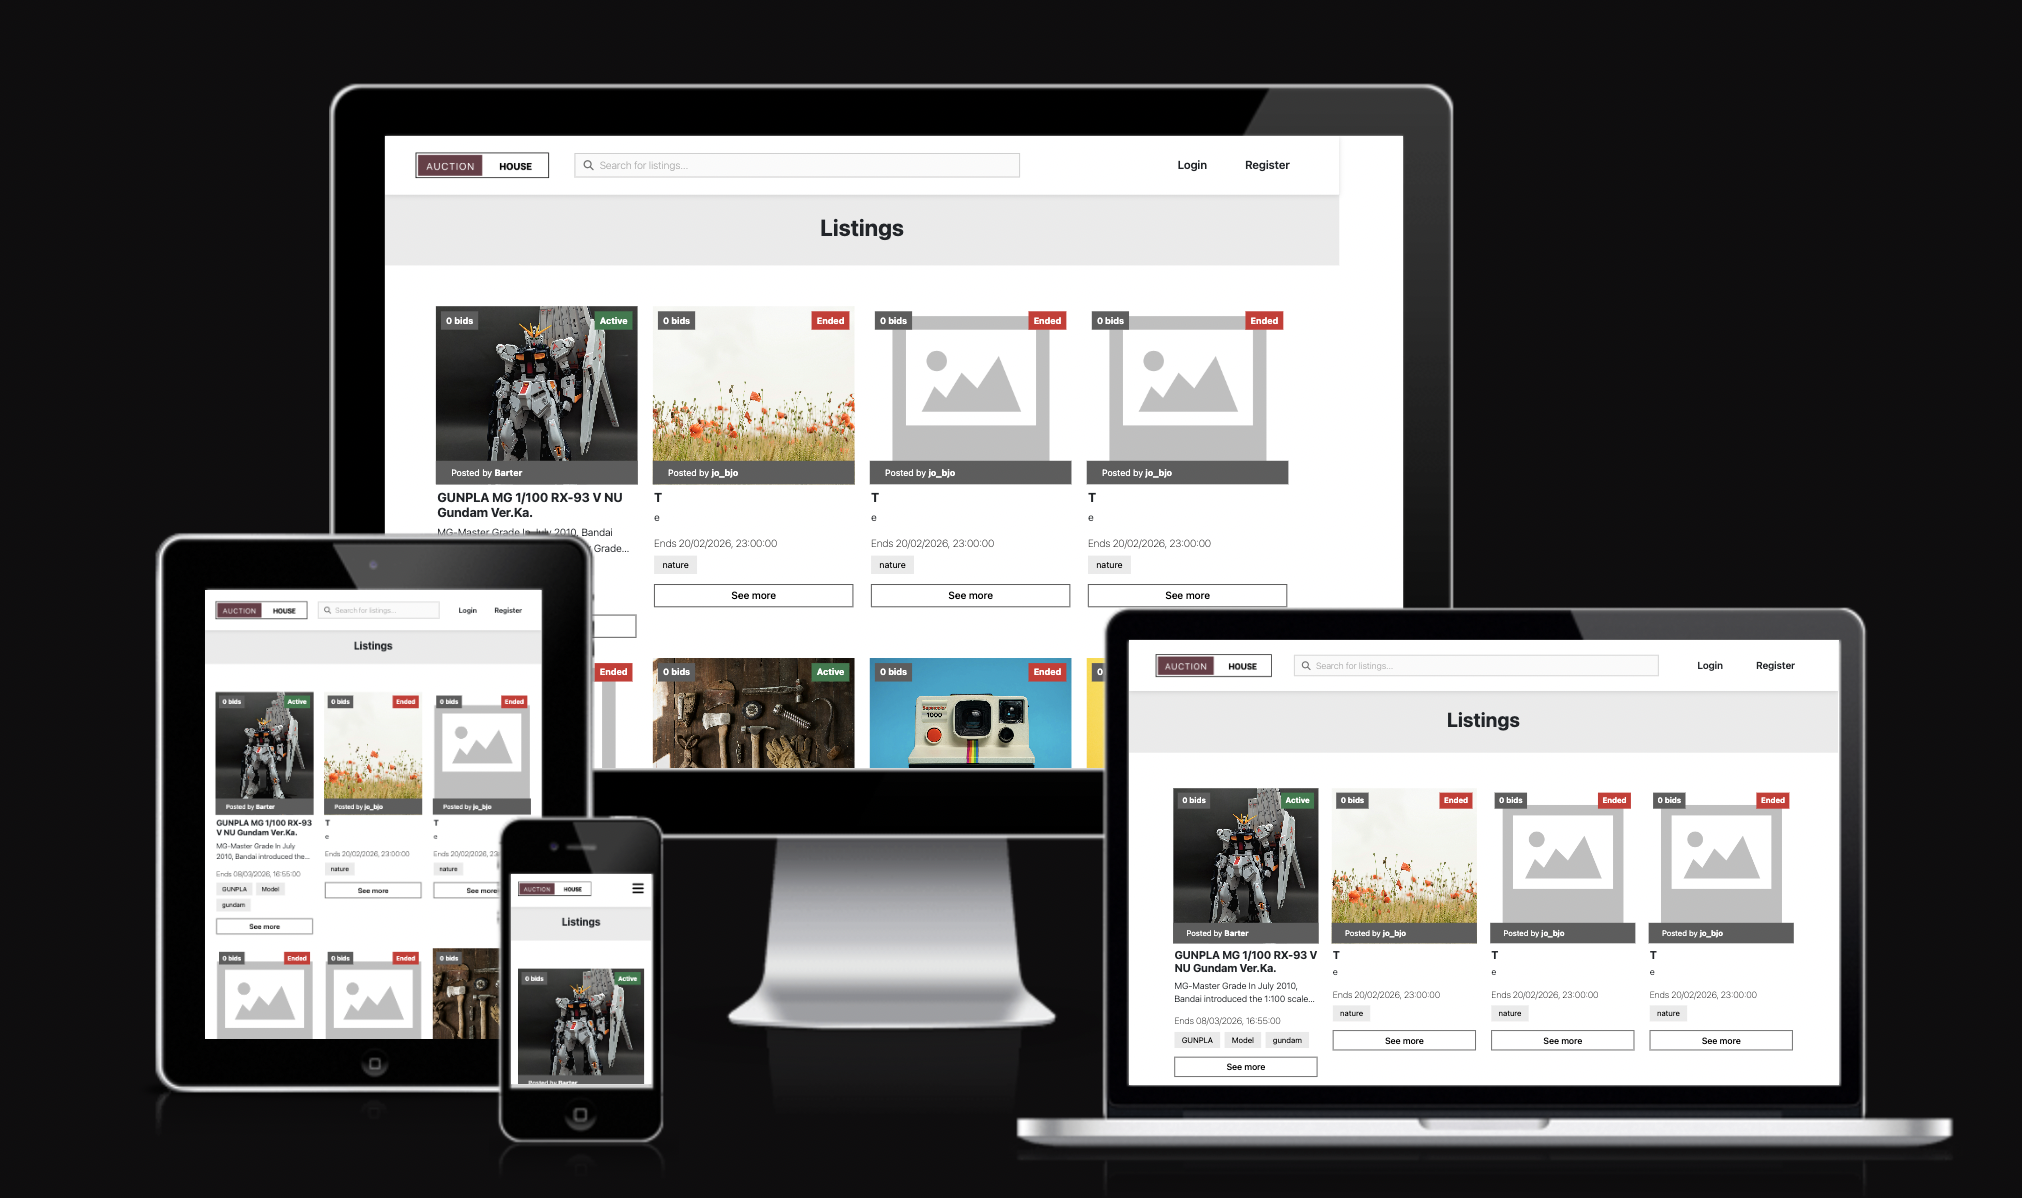
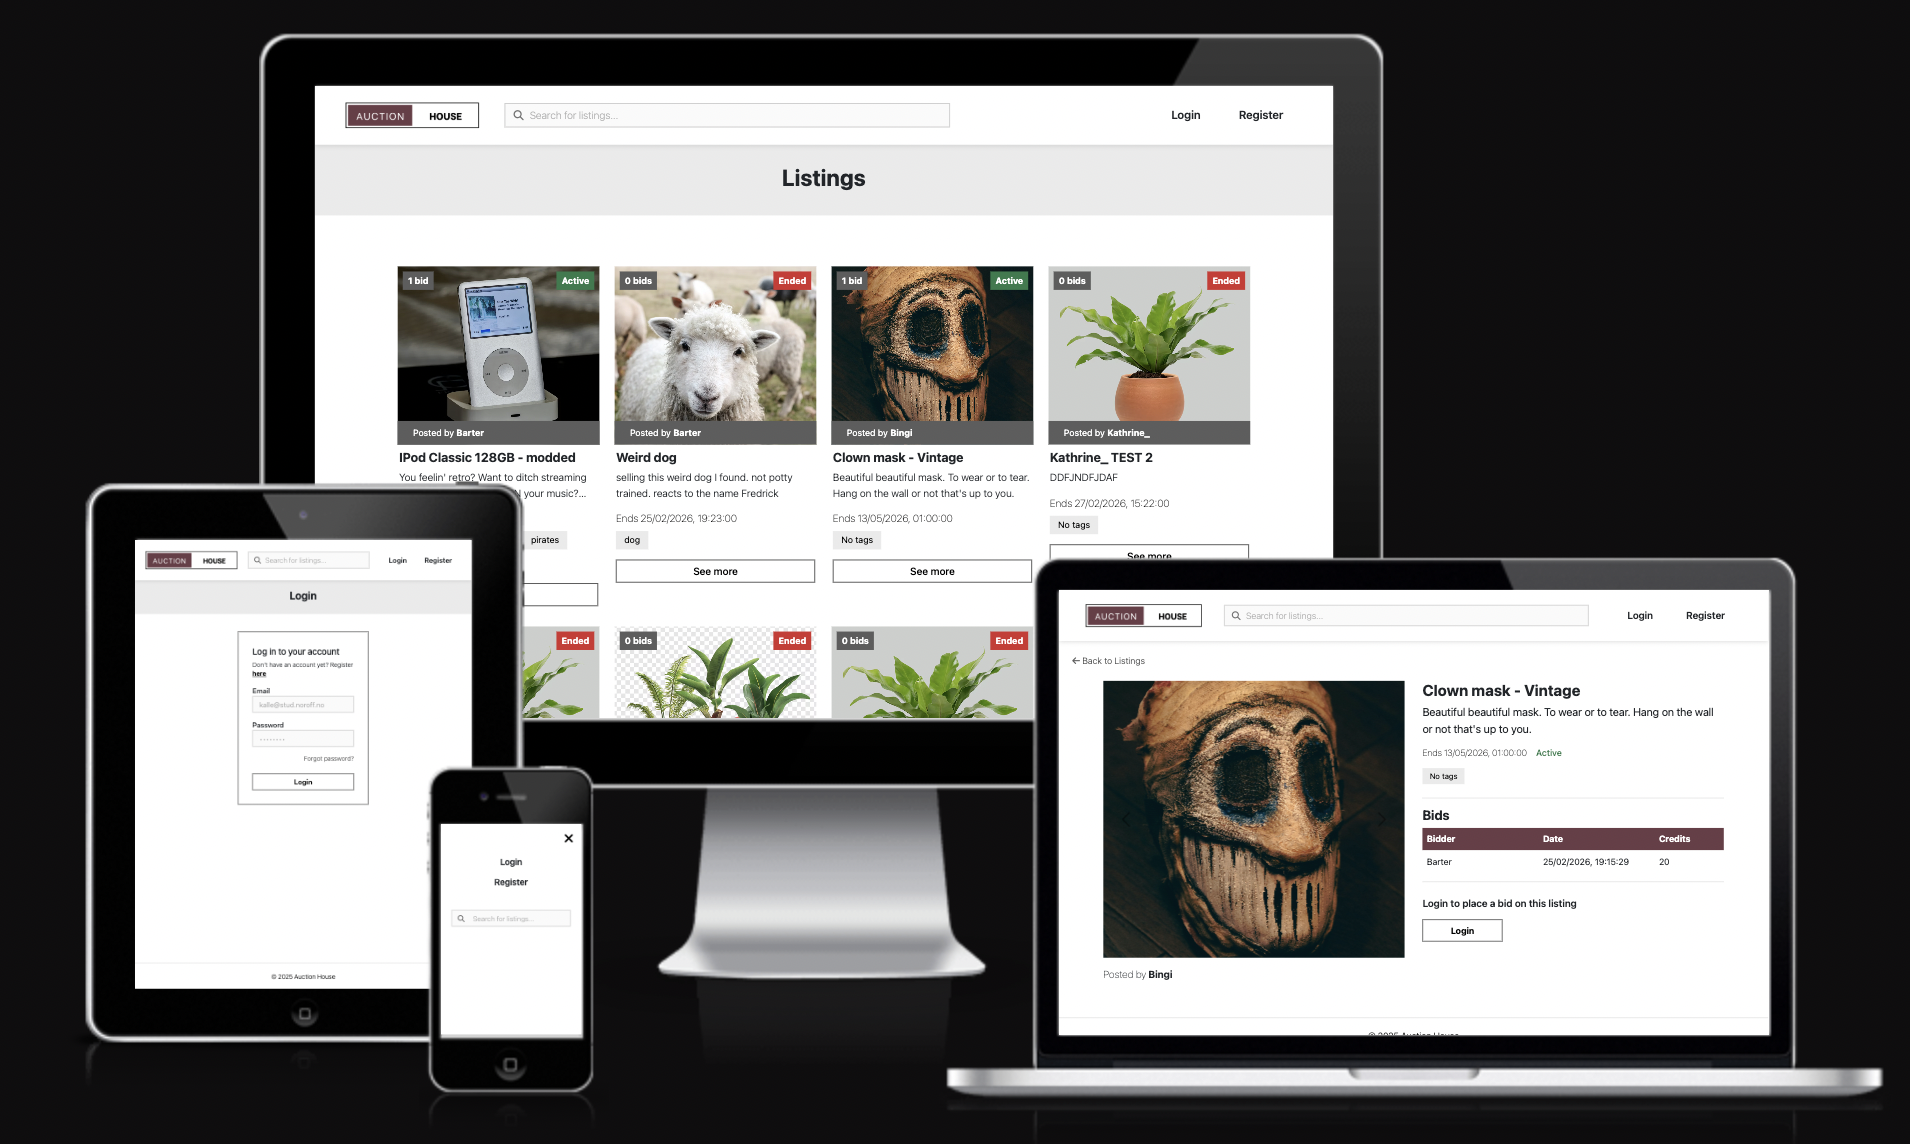
create new html files for each project

diff --git a/index.html b/index.html
@@ -104,7 +104,7 @@
         <div class="project-thumbnail">
           <img
             id="img3"
-            src="assets/images/por3.jpg"
+            src="assets/images/chattr.png"
             alt="Project 3 Thumbnail"
           />
         </div>

diff --git a/README.md b/README.md
@@ -16,47 +16,60 @@ Welcome to my online portfolio! I am a **Frontend Developer** with a passion for
 
 Here are a few of the projects I've worked on:
 
-### 1. **Rainy Days**
+### 1. **Auction House**
 
-An e-commerce site for the _Rainy Days_ brand, built using HTML, CSS, and JavaScript. This project features:
+A front-end auction platform built with HTML5, CSS3, and vanilla JavaScript, integrating the Noroff API for dynamic data and user interaction. The project focuses on authentication, structured application logic, and real-time content updates without using a framework.
 
-- Product browsing
-- Cart management
-- Responsive design for all screen sizes
+#### Features
 
-[View Project](https://mayamariaruth.github.io/html-css-course-assignment/index.html) | [GitHub Repo](https://github.com/Mayamariaruth/html-css-course-assignment)
+- Browse and view active auction listings
+- View detailed item pages
+- Place bids on items
+- User registration and login
+- Responsive layout across devices
 
-### 2. **Oslo Science Museum**
+[View Project](https://mayamariaruth.github.io/auctionhouse/) | [GitHub Repo](https://github.com/Mayamariaruth/auctionhouse)
 
-A playful and responsive website for the _Oslo Science Museum_. Built with HTML, CSS, and JavaScript, this site is designed to engage both children and parents. Features include:
+### 2. **Shopella**
 
-- Interactive layout
-- Responsive design
-- Modern UI elements
+A simple e-commerce web application built with React, TypeScript, React Router, and Zustand for state management. It allows users to browse products, view details, add items to a shopping cart, adjust quantities, submit a contact form, and complete a mock checkout flow.
 
-[View Project](https://mayamariaruth.github.io/science-museum/) | [GitHub Repo](https://github.com/Mayamariaruth/science-museum)
+#### Features
 
-### 3. **HotView Labs Blog**
+- Browse products
+- View individual product details
+- Add and remove items from cart
+- Cart total calculation
+- Responsive and accessible design
 
-A blog platform for _HotView Labs_, featuring sorting, pagination, and dynamic post management. This project demonstrates my ability to build functional websites with the following:
+[View Project](https://shopellastore.netlify.app/) | [GitHub Repo](https://github.com/NoroffFEU/jsfw-2025-v1-javascript-frameworks-ca)
 
-- Custom sorting and pagination
-- Dynamic content loading using the Noroff API
+### 3. **Chattr.**
+
+A responsive social posting app interface built with Bootstrap and custom SCSS overrides. It showcases UI features such as creating new posts, viewing posts, and smooth interaction, with modern styling and accessibility considerations.
+**Note:** This is a fully static front-end demo without backend functionality.
+
+#### Features
+
+- Fetch and display posts
+- Create new posts
+- Edit existing posts
+- Delete posts
 - Responsive layout
+
+[View Project](https://mayamariaruth.github.io/css-repo-cs/) | [GitHub Repo](https://github.com/Mayamariaruth/css-repo-cs)
 
 #### API Usage:
 
-This project integrates the [Noroff API v2](https://docs.noroff.dev/docs/v2) to dynamically fetch blog posts, display them with sorting and pagination features, and allow for CRUD operations on blog content.
+This project integrates the [Noroff API v2](https://docs.noroff.dev/docs/v2) to dynamically fetch data, and allow for CRUD operations.
 
-[View Project](https://hotviewlabs1.netlify.app/) | [GitHub Repo](https://github.com/NoroffFEU/FED1-PE1-Mayamariaruth)
-
-## Technologies Used
+## Portfolio tech stack
 
 - **HTML5**
 - **CSS3**
 - **JavaScript**
-- **GitHub** (for version control)
-- **Netlify** (for hosting)
+- **Git & GitHub** (for version control)
+- **GitHub Pages** (for hosting)
 
 ## How to Run
 
